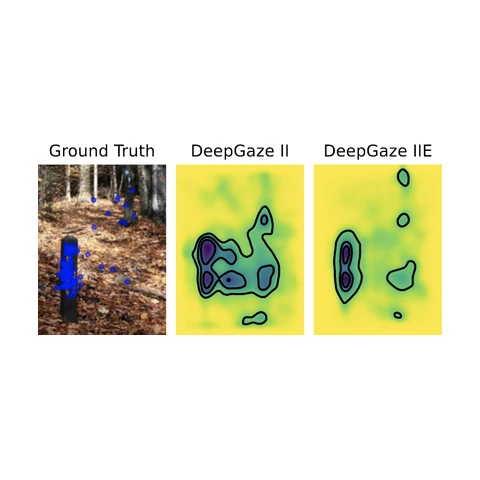
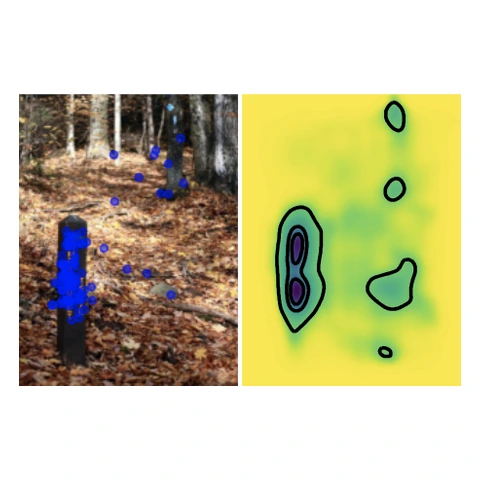
Refine two paper thumbnails and load CiteME earlier

diff --git a/_pages/about.html b/_pages/about.html
@@ -145,7 +145,7 @@ function toggleBibtex(trigger) {
     </div>
   </div>
   <div class="pub-entry">
-    {% include publication-thumbnail.html paper="humanitysexam" alt="Subject distribution of Humanity’s Last Exam questions" %}
+    {% include publication-thumbnail.html paper="humanitysexam" version=7 alt="A Humanity’s Last Exam question asking for a translation of a Palmyrene inscription" %}
     <div class="pub-content">
       <strong class="pub-title">Humanity's Last Exam</strong>
       <span class="pub-authors">Long Phan, Alice Gatti, Ziwen Han, …, <strong class="pub-author-self">Ori Press</strong>, … <em>(contributed 6 questions, 1 in the top 550)</em></span>
@@ -187,7 +187,7 @@ function toggleBibtex(trigger) {
     </div>
   </div>
   <div class="pub-entry">
-    {% include publication-thumbnail.html paper="citeme" version=6 alt="Figure 1 shows a model identifying the missing citation for a scientific claim" %}
+    {% include publication-thumbnail.html paper="citeme" version=6 loading="eager" alt="Figure 1 shows a model identifying the missing citation for a scientific claim" %}
     <div class="pub-content">
       <strong class="pub-title">CiteME: Can Language Models Accurately Cite Scientific Claims?</strong>
       <span class="pub-authors"><strong class="pub-author-self">Ori Press</strong>*, Andreas Hochlehnert*, Ameya Prabhu, Vishaal Udandarao, Ofir Press‡, Matthias Bethge‡ (*/‡ shared first/last authorship)</span>
@@ -258,7 +258,7 @@ function toggleBibtex(trigger) {
     </div>
   </div>
   <div class="pub-entry">
-    {% include publication-thumbnail.html paper="calibrated" alt="Human gaze fixations alongside predictions from DeepGaze II and DeepGaze IIE" %}
+    {% include publication-thumbnail.html paper="calibrated" version=7 alt="Human gaze fixations beside the DeepGaze IIE saliency prediction" %}
     <div class="pub-content">
       <strong class="pub-title">Calibrated prediction in and out-of-domain for state-of-the-art saliency modeling</strong>
       <span class="pub-authors">Akis Linardos*, Matthias Kümmerer*, <strong class="pub-author-self">Ori Press</strong>, Matthias Bethge</span>

diff --git a/_includes/publication-thumbnail.html b/_includes/publication-thumbnail.html
@@ -4,5 +4,6 @@
      src="{{ asset }}-320.webp?v={{ version }}"
      srcset="{{ asset }}-160.webp?v={{ version }} 160w, {{ asset }}-320.webp?v={{ version }} 320w, {{ asset }}-480.webp?v={{ version }} 480w"
      sizes="(max-width: 768px) 238px, 150px"
-     width="480" height="480" loading="lazy" decoding="async"
+     width="480" height="480" loading="{{ include.loading | default: 'lazy' }}" decoding="async"
+     {% if include.loading == "eager" %}fetchpriority="low"{% endif %}
      alt="{{ include.alt | escape }}">

diff --git a/scripts/optimize-homepage-images.py b/scripts/optimize-homepage-images.py
@@ -45,7 +45,9 @@ WIDE_FIGURE_THUMBNAILS = (
     "thumb-algotune.png",
     "thumb-binprop.png",
     "thumb-caddie.png",
+    "thumb-calibrated.png",
     "thumb-citeme.png",
+    "thumb-humanitysexam.png",
 )
 PORTRAIT_WIDTHS = (240, 336, 480, 648, 800)
 THUMBNAIL_QUALITY = 92
